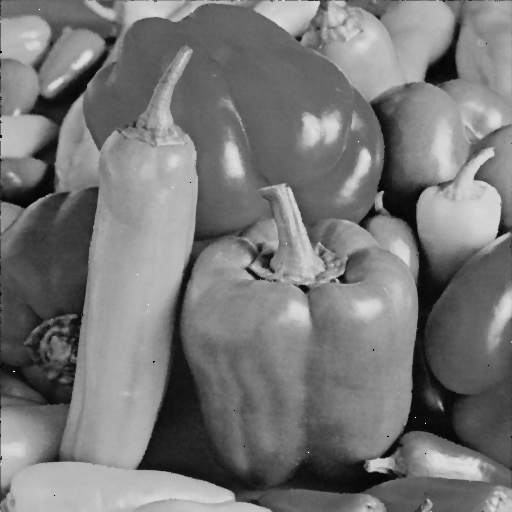
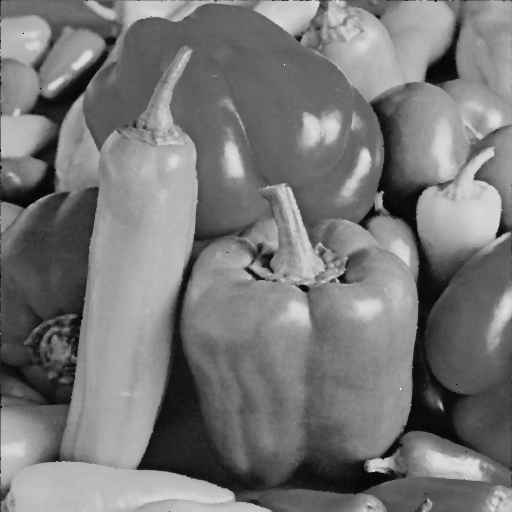
multiplicative noise update

Changed region(s): [[0.9688, 0.4375, 1.0, 0.4688]]

diff --git a/Noise.py b/Noise.py
@@ -34,8 +34,8 @@ def addSaltNPepper(img):
 
 """ ADDING Multiplicative Noise """
 def addMultiplicativeNoise(img):
-    noise = np.random.randint(0, 10, img.shape)/10
-    noisy_img = img / (1 + noise)
+    noise = np.random.rand(img.shape[0], img.shape[1])
+    noisy_img = img * (1 + noise)
     noisy_img[noisy_img < 0] = 0
     noisy_img[noisy_img > 255] = 255
     return np.uint8(noisy_img)
